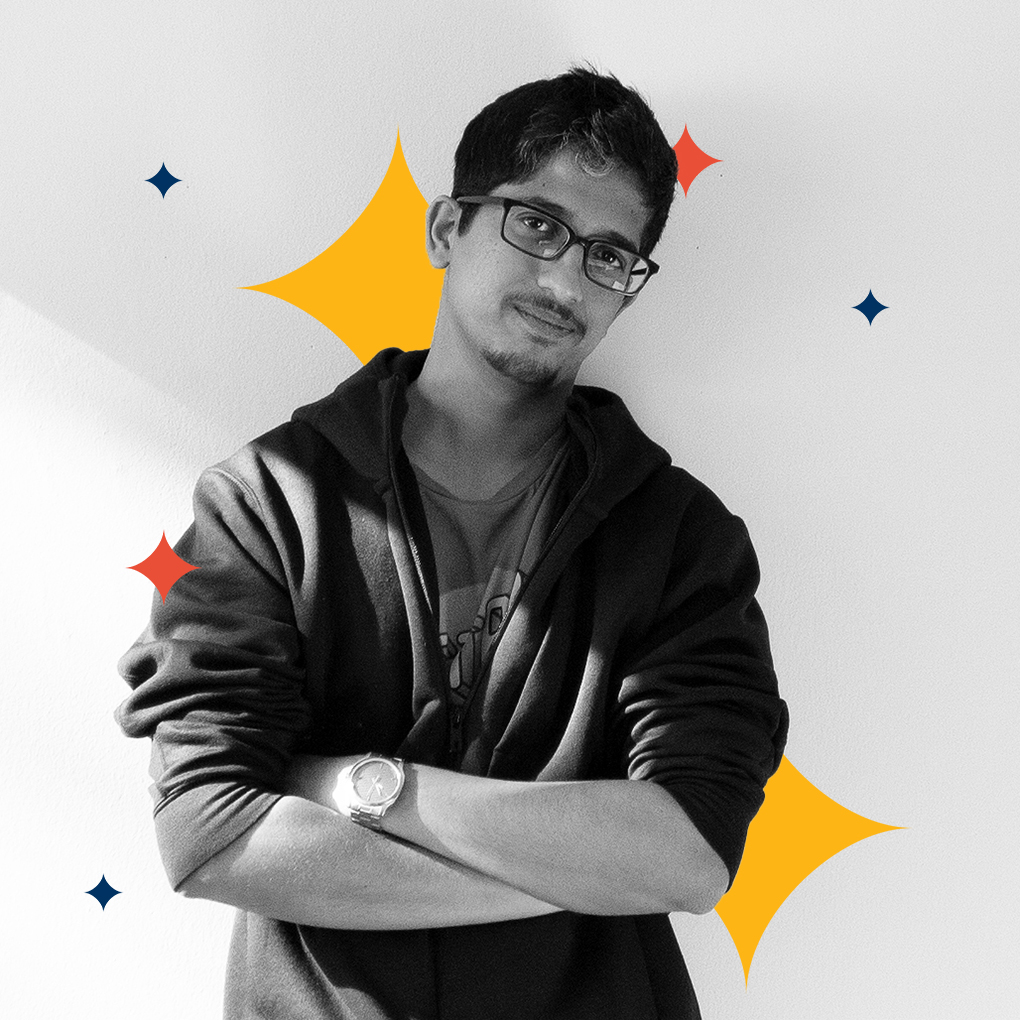
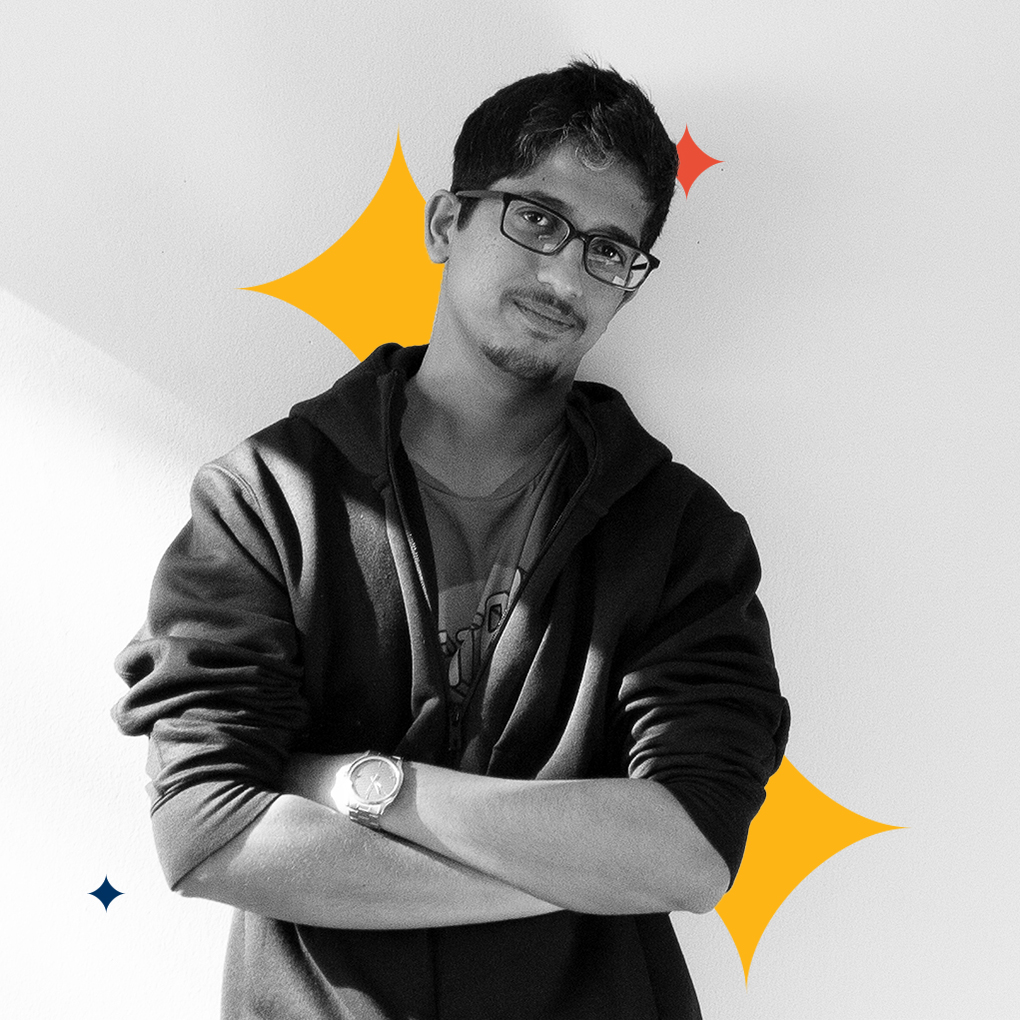
adds animations to image

diff --git a/about.html b/about.html
@@ -47,13 +47,14 @@
         })();
     </script>
 
-    
+
 </head>
 
 <body>
     <!-- NAVIGATION -->
     <header role="banner">
-        <nav role="navigation" class="fixed-top navbar navbar-expand-lg bg-white shadow py-lg-2 darkbgmid navscroll rounded-4 m-2">
+        <nav role="navigation"
+            class="fixed-top navbar navbar-expand-lg bg-white shadow py-lg-2 darkbgmid navscroll rounded-4 m-2">
             <div class="container javanav">
                 <a class="d-lg-none navbar-brand ps-2" href="index.html">
                     <img class="logo1" src="images/logo.svg" alt="logo" width="150" height="80">
@@ -172,11 +173,29 @@
             <div class="row g-4 g-lg-5">
                 <!-- Responsive image so that the best image shows up at any breakpoint -->
                 <div class="col-12 col-xl-6 col-xxl-5">
-                    <img data-aos="fade-up" data-aos-duration="1000" src="images/self.jpg" class="rounded-4 card-img">
-                    <!-- <img data-aos="fade-up" data-aos-duration="1000" src="images/self.jpg" srcset="images/self-500.jpg 500w,
+                    <!-- Placing images in container to align stars -->
+                    <div class="image-container">
+                        <img src="images/self.png"
+                            class="rounded-4 card-img self-image">
+
+                        <!-- Cutout -->
+                        <img src="images/self-top.png"
+                        class="rounded-4 card-img self-top-image">
+
+
+                        <!-- SVG stars -->
+                        <img src="images/blue-star.svg" alt="hover star" class="starblue1" title="hover">
+                        <img src="images/blue-star.svg" alt="hover star" class="starblue2" title="hover">
+                        <img src="images/blue-star.svg" alt="hover star" class="starblue3" title="hover">
+                        <img src="images/orange-star.svg" alt="hover star" class="starorange1" title="hover">
+                        <img src="images/orange-star.svg" alt="hover star" class="starorange2" title="hover">
+                        <img src="images/yellow-star.svg" alt="hover star" class="staryellow1" title="hover">
+                        <img src="images/yellow-star.svg" alt="hover star" class="staryellow2" title="hover">
+                        <!-- <img data-aos="fade-up" data-aos-duration="1000" src="images/self.jpg" srcset="images/self-500.jpg 500w,
                                 images/self-1000.jpg 1000w,
                                 images/self-1500.jpg 1500w" sizes="(min-width: 960px) 50vw, 100vw" 
                         class="rounded-4 img-fluid p-2 w-100" alt="Photo of myself"> -->
+                    </div>
                 </div>
                 <div class="col-12 col-xl-6 col-xxl-7 textberkeley">
                     <div class="">
@@ -188,12 +207,14 @@
                                 malayalam)</small>
                         </p>
                         <p data-aos="fade-up" data-aos-duration="1000" class="card-text fs-5 lh-base">
-                            Hey there! I'm Sunit Joseph, a Canada-based creative, passionate about advertising, motion design, and creative problem-solving.
+                            Hey there! I'm Sunit Joseph, a Canada-based creative, passionate about advertising, motion
+                            design, and creative problem-solving.
                         </p>
                         <p data-aos="fade-up" data-aos-duration="1000" class="card-text fs-5 lh-base">
                             Originally from South India, I built my creative foundation as an art director in
                             Bangalore’s
-                            fast-paced advertising industry before expanding my expertise in UX design, motion graphics, and web
+                            fast-paced advertising industry before expanding my expertise in UX design, motion graphics,
+                            and web
                             development at Algonquin College in Ottawa.
                         </p>
                         <div data-aos="fade-up" data-aos-duration="1000"

diff --git a/css/main.css b/css/main.css
@@ -148,7 +148,7 @@ body {
 .navcv {
     font-weight: bold !important;
     background-color: var(--cinnabar);
-    color: var(--berkeleyblue)!important;
+    color: var(--berkeleyblue) !important;
     border: 2px solid var(--berkeleyblue);
     border-radius: 40px;
     border-left: none;
@@ -158,7 +158,7 @@ body {
 .navcv:hover,
 .navcv:active {
     background-color: var(--berkeleyblue);
-    color: white!important;
+    color: white !important;
 }
 
 .navabout:hover,
@@ -374,7 +374,7 @@ footer,
     .projectcardsuggest {
         opacity: 40%;
     }
-    
+
 }
 
 .projectcardsuggest:hover {
@@ -626,4 +626,93 @@ body {
     transition: 0.5s;
 }
 
-/* Recommended projects */
+
+
+
+/* STAR ON IMAGE & CUT-OUT */
+/* Removed redudancy and made things shorter */
+
+
+/* Images */
+.image-container {
+    position: relative;
+    display: inline-block;
+}
+
+.self-top-image {
+    position: absolute;
+    top: 0;
+    left: 0;
+    z-index: 3;
+}
+
+.self-image {
+    z-index: 1;
+}
+
+/* Common Star Styles */
+.starblue1, .starblue2, .starblue3, 
+.starorange1, .starorange2, 
+.staryellow1, .staryellow2 {
+    position: absolute;
+    animation: rotatingStar linear infinite;
+}
+
+/* Blue stars */
+.starblue1, .starblue2, .starblue3 {
+    height: 1em;
+    width: 1em;
+    z-index: 4;
+    animation-duration: 3s;
+}
+
+.starblue1 { left: 20%; top: 15%; }
+.starblue2 { left: 80%; top: 35%; }
+.starblue3 { left: 9%; top: 86%; }
+
+/* Orange stars */
+.starorange1, .starorange2 {
+    height: 3em;
+    width: 3em;
+    animation-duration: 10s;
+}
+
+.starorange1 { z-index: 4; }
+.starorange2 { z-index: 2; animation-direction: reverse; }
+
+/* Yellow stars */
+.staryellow1, .staryellow2 {
+    height: 7em;
+    width: 7em;
+    z-index: 2;
+    animation-duration: 40s;
+}
+
+/* Rotating animation */
+@keyframes rotatingStar {
+    0% { transform: rotate(0deg); }
+    100% { transform: rotate(360deg); }
+}
+
+/* Responsive adjustments */
+@media screen and (max-width: 768px) {
+    .staryellow1 { left: 22%; top: 15%; }
+    .staryellow2 { left: 55%; top: 65%; }
+    .starorange1 { left: 8%; top: 55%; }
+    .starorange2 { left: 58%; top: 12%; }
+}
+
+@media screen and (min-width: 769px) {
+    .staryellow1, .staryellow2 { height: 12em; width: 12em; }
+    .staryellow1 { left: 28%; top: 15%; }
+    .staryellow2 { left: 60%; top: 65%; }
+    .starorange1 { left: 11%; top: 55%; }
+    .starorange2 { left: 63%; top: 12%; }
+}
+
+@media screen and (min-width: 1200px) {
+    .staryellow1 { left: 20%; top: 15%; }
+    .staryellow2 { left: 52%; top: 62%; }
+    .starorange1 { left: 9%; top: 60%; }
+    .starorange2 { left: 61%; top: 12%; }
+}

diff --git a/css/darkmode.css b/css/darkmode.css
@@ -679,3 +679,93 @@ p.fs-4 {
 .navscroll {
     transition: 0.5s;
 }
+
+
+
+/* STAR ON IMAGE & CUT-OUT */
+/* Removed redudancy and made things shorter */
+
+
+/* Images */
+.image-container {
+    position: relative;
+    display: inline-block;
+}
+
+.self-top-image {
+    position: absolute;
+    top: 0;
+    left: 0;
+    z-index: 3;
+}
+
+.self-image {
+    z-index: 1;
+}
+
+/* Common Star Styles */
+.starblue1, .starblue2, .starblue3, 
+.starorange1, .starorange2, 
+.staryellow1, .staryellow2 {
+    position: absolute;
+    animation: rotatingStar linear infinite;
+}
+
+/* Blue stars */
+.starblue1, .starblue2, .starblue3 {
+    height: 1em;
+    width: 1em;
+    z-index: 4;
+    animation-duration: 3s;
+}
+
+.starblue1 { left: 20%; top: 15%; }
+.starblue2 { left: 80%; top: 35%; }
+.starblue3 { left: 9%; top: 86%; }
+
+/* Orange stars */
+.starorange1, .starorange2 {
+    height: 3em;
+    width: 3em;
+    animation-duration: 10s;
+}
+
+.starorange1 { z-index: 4; }
+.starorange2 { z-index: 2; animation-direction: reverse; }
+
+/* Yellow stars */
+.staryellow1, .staryellow2 {
+    height: 7em;
+    width: 7em;
+    z-index: 2;
+    animation-duration: 40s;
+}
+
+/* Rotating animation */
+@keyframes rotatingStar {
+    0% { transform: rotate(0deg); }
+    100% { transform: rotate(360deg); }
+}
+
+/* Responsive adjustments */
+@media screen and (max-width: 768px) {
+    .staryellow1 { left: 22%; top: 15%; }
+    .staryellow2 { left: 55%; top: 65%; }
+    .starorange1 { left: 8%; top: 55%; }
+    .starorange2 { left: 58%; top: 12%; }
+}
+
+@media screen and (min-width: 769px) {
+    .staryellow1, .staryellow2 { height: 12em; width: 12em; }
+    .staryellow1 { left: 28%; top: 15%; }
+    .staryellow2 { left: 60%; top: 65%; }
+    .starorange1 { left: 11%; top: 55%; }
+    .starorange2 { left: 63%; top: 12%; }
+}
+
+@media screen and (min-width: 1200px) {
+    .staryellow1 { left: 20%; top: 15%; }
+    .staryellow2 { left: 52%; top: 62%; }
+    .starorange1 { left: 9%; top: 60%; }
+    .starorange2 { left: 61%; top: 12%; }
+}
